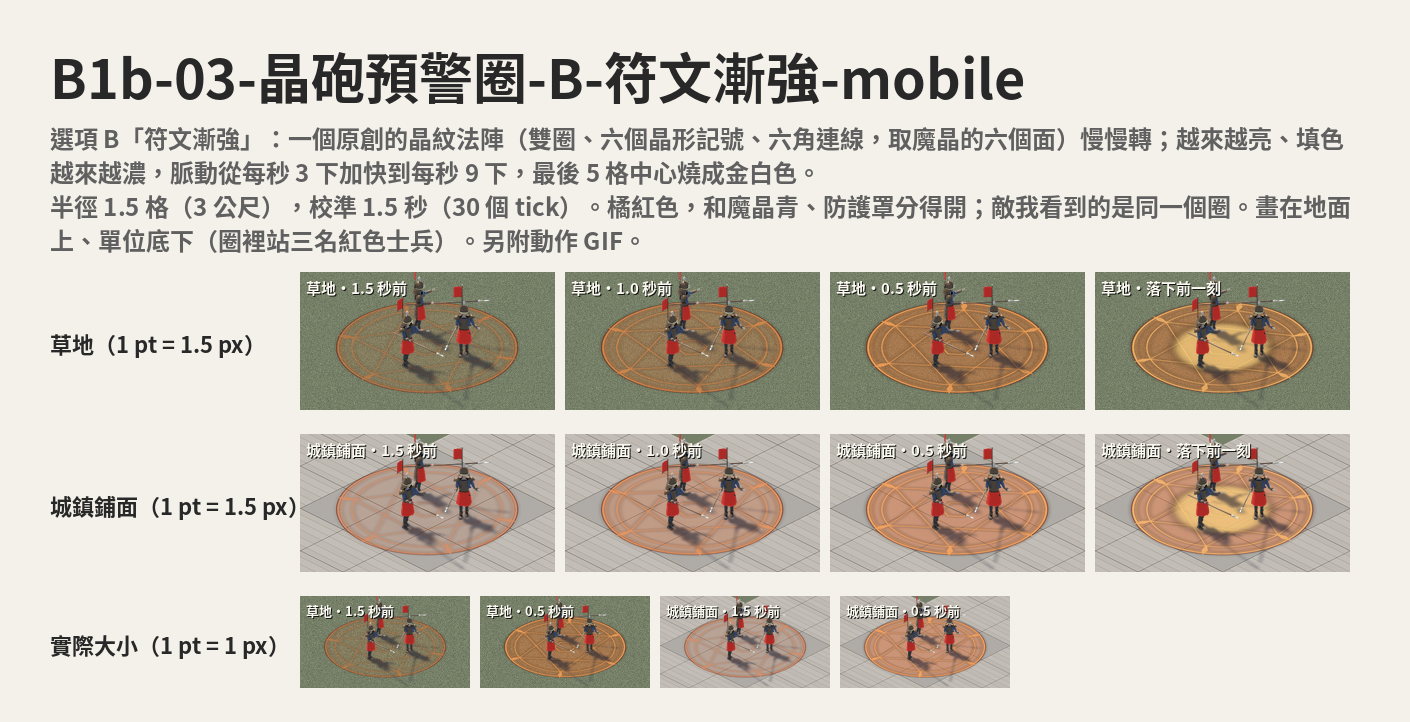
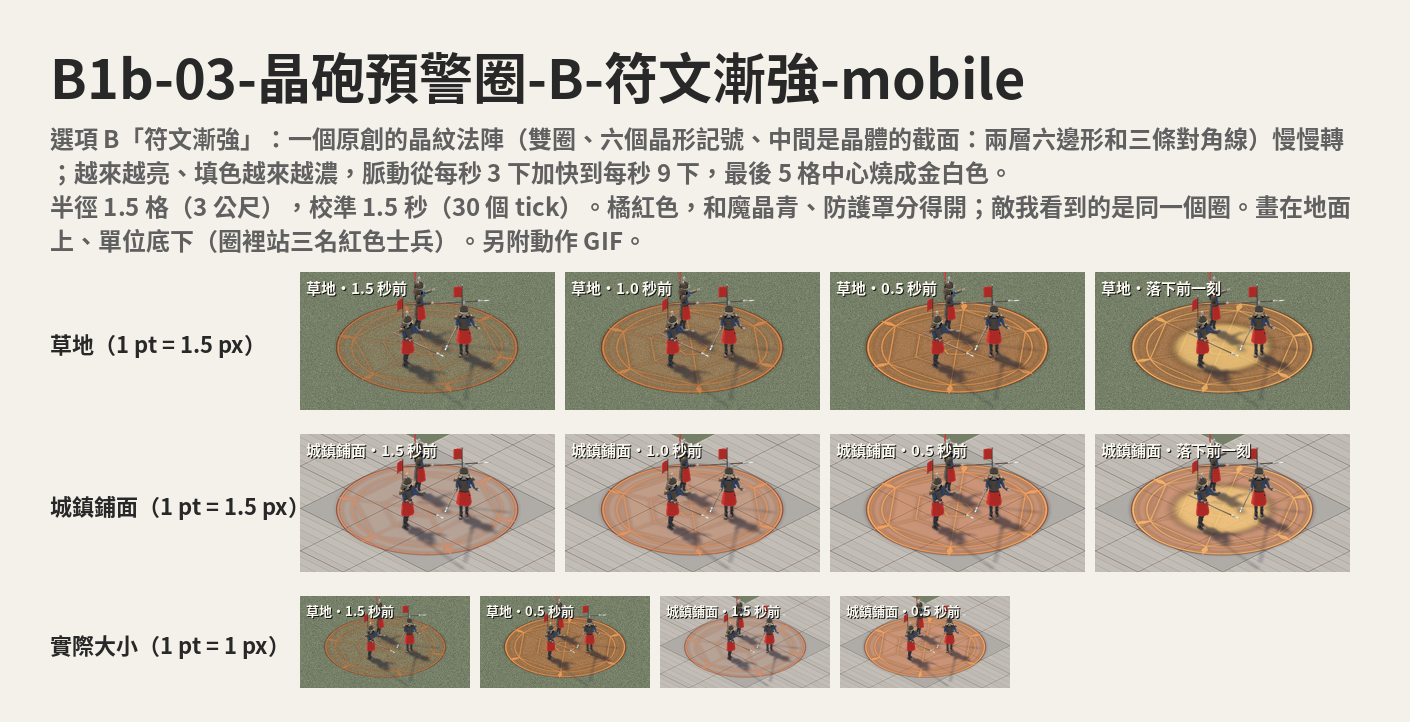
B1b：預警圈 B 的圖案改成晶體截面（兩層六邊形加三條對角線），不再形成六芒星

Changed region(s): [[0.0312, 0.1524, 0.9674, 0.2742], [0.6241, 0.4571, 0.6553, 0.4875], [0.4369, 0.4571, 0.4681, 0.4875]]

diff --git a/design/b1/common/warn.py b/design/b1/common/warn.py
@@ -8,8 +8,8 @@ turned 45 degrees to the map grid and squashed to the ground ellipse (camera 30 
 
 A 「收束圈」: a crisp outer rim with tick marks (the edge of the blast) that stays; a bright ring starts
   at the rim and closes in on the centre; behind it the ground glows hotter; the last 5 ticks flash.
-B 「符文漸強」: an original crystal-lattice sigil (double ring, six crystal marks, a hexagon of lines,
-  like the 魔晶's six faces) that turns slowly; it brightens and its fill thickens, pulsing faster
+B 「符文漸強」: an original crystal sigil (double ring, six crystal marks, a crystal's cross-section: two
+  concentric hexagons and the three long diagonals; no six-pointed star, ceo 2026-10-02) that turns slowly; it brightens and its fill thickens, pulsing faster
   and faster (3 -> 9 pulses a second); the last 5 ticks it burns white at the core.
 
 Colours: orange-red (client WARNING_TINT 0xff8a2a, a little redder for the rim), a pale gold for the hottest
@@ -103,8 +103,8 @@ def frame_a(tick):
 
 
 def _sigil(dr, c, R, rot, col, width):
-    """The crystal-lattice sigil (original): a double ring, six crystal marks on the ring, a hexagon of
-    straight lines joining them, and a small hexagon at the centre."""
+    """The crystal sigil (original): a double ring, six crystal marks on the ring, a crystal's cross-section
+    (two concentric hexagons and the three long diagonals) and a small hexagon at the centre."""
     _ring(dr, c, R, width, col)
     _ring(dr, c, R * 0.84, max(2, width * 0.6), col)
     pts = []
@@ -119,8 +119,16 @@ def _sigil(dr, c, R, rot, col, width):
         L, Wd = R * 0.11, R * 0.035
         dr.polygon([(ax + ux * L, ay + uy * L), (ax + vx * Wd, ay + vy * Wd), (ax - ux * L, ay - uy * L),
                     (ax - vx * Wd, ay - vy * Wd)], fill=col)
+    # a crystal's cross-section: the hexagon through the marks, a second hexagon inside it and the three
+    # long diagonals through the centre (no lines skip a corner, so no star is formed)
+    lw = max(2, int(width * 0.5))
     for i in range(6):
-        dr.line([pts[i], pts[(i + 2) % 6]], fill=col, width=max(2, int(width * 0.5)))
+        dr.line([pts[i], pts[(i + 1) % 6]], fill=col, width=lw)
+    inner = [(c + (x - c) * 0.6, c + (y - c) * 0.6) for x, y in pts]
+    for i in range(6):
+        dr.line([inner[i], inner[(i + 1) % 6]], fill=col, width=max(2, int(width * 0.4)))
+    for i in range(3):
+        dr.line([pts[i], pts[i + 3]], fill=col, width=max(2, int(width * 0.35)))
     h = [(c + math.cos(rot + math.pi / 6 + 2 * math.pi * i / 6) * R * 0.18,
           c + math.sin(rot + math.pi / 6 + 2 * math.pi * i / 6) * R * 0.18) for i in range(6)]
     dr.polygon(h, outline=col, width=max(2, int(width * 0.6)))

diff --git a/design/b1/common/warn_art.py b/design/b1/common/warn_art.py
@@ -21,7 +21,7 @@ import warn       # noqa: E402
 
 OPTS = [("A", "收束圈", "選項 A「收束圈」：外圈是爆炸範圍的邊（半徑 1.5 格），清楚的橘紅線加一圈刻度；一道亮環從邊緣往中心收，"
          "收到中心就落下；亮環走過的地方越來越熱，最後 5 格（0.25 秒）整圈閃亮。"),
-        ("B", "符文漸強", "選項 B「符文漸強」：一個原創的晶紋法陣（雙圈、六個晶形記號、六角連線，取魔晶的六個面）慢慢轉；"
+        ("B", "符文漸強", "選項 B「符文漸強」：一個原創的晶紋法陣（雙圈、六個晶形記號、中間是晶體的截面：兩層六邊形和三條對角線）慢慢轉；"
          "越來越亮、填色越來越濃，脈動從每秒 3 下加快到每秒 9 下，最後 5 格中心燒成金白色。")]
 KEYS = [(0, "1.5 秒前"), (10, "1.0 秒前"), (20, "0.5 秒前"), (27, "落下前一刻")]
 CELL = 2.0

diff --git a/design/b1/README.md b/design/b1/README.md
@@ -74,7 +74,8 @@
   材質去掉光澤和反光（細葉片幾乎都斜對鏡頭，有光澤就會反白）。
 - **B1b-03 晶砲預警圈**（`common/warn.py`、`warn_art.py`）：遊戲畫的世界效果，和落地揚塵同一類，用 2D 做：
   - A 收束圈：外圈是爆炸範圍的邊（加刻度），一道亮環從邊緣往中心收，最後 5 格整圈閃亮。
-  - B 符文漸強：原創的晶紋法陣（雙圈、六個晶形記號、六角連線）慢慢轉，越來越亮，脈動從每秒 3 下加快到 9 下，最後 5 格中心燒成金白。
+  - B 符文漸強：原創的晶紋法陣（雙圈、六個晶形記號、中間是晶體截面：兩層六邊形和三條對角線；第一版的六角連線
+    會形成六芒星，ceo 2026-10-02 要求換掉）慢慢轉，越來越亮，脈動從每秒 3 下加快到 9 下，最後 5 格中心燒成金白。
   - 半徑 1.5 格（3 公尺），校準 30 tick（1.5 秒），每 tick 一格；畫在地面、單位底下；顏色橘紅（client WARNING_TINT 0xff8a2a，
     外圈稍紅），底下一道深色線讓它在淺色鋪面上也看得清楚。
   - 量產時可以出 30 格的圖，或由 client 照這個樣子用向量畫（圈可以依半徑縮放）；選定後再和 client 定。
